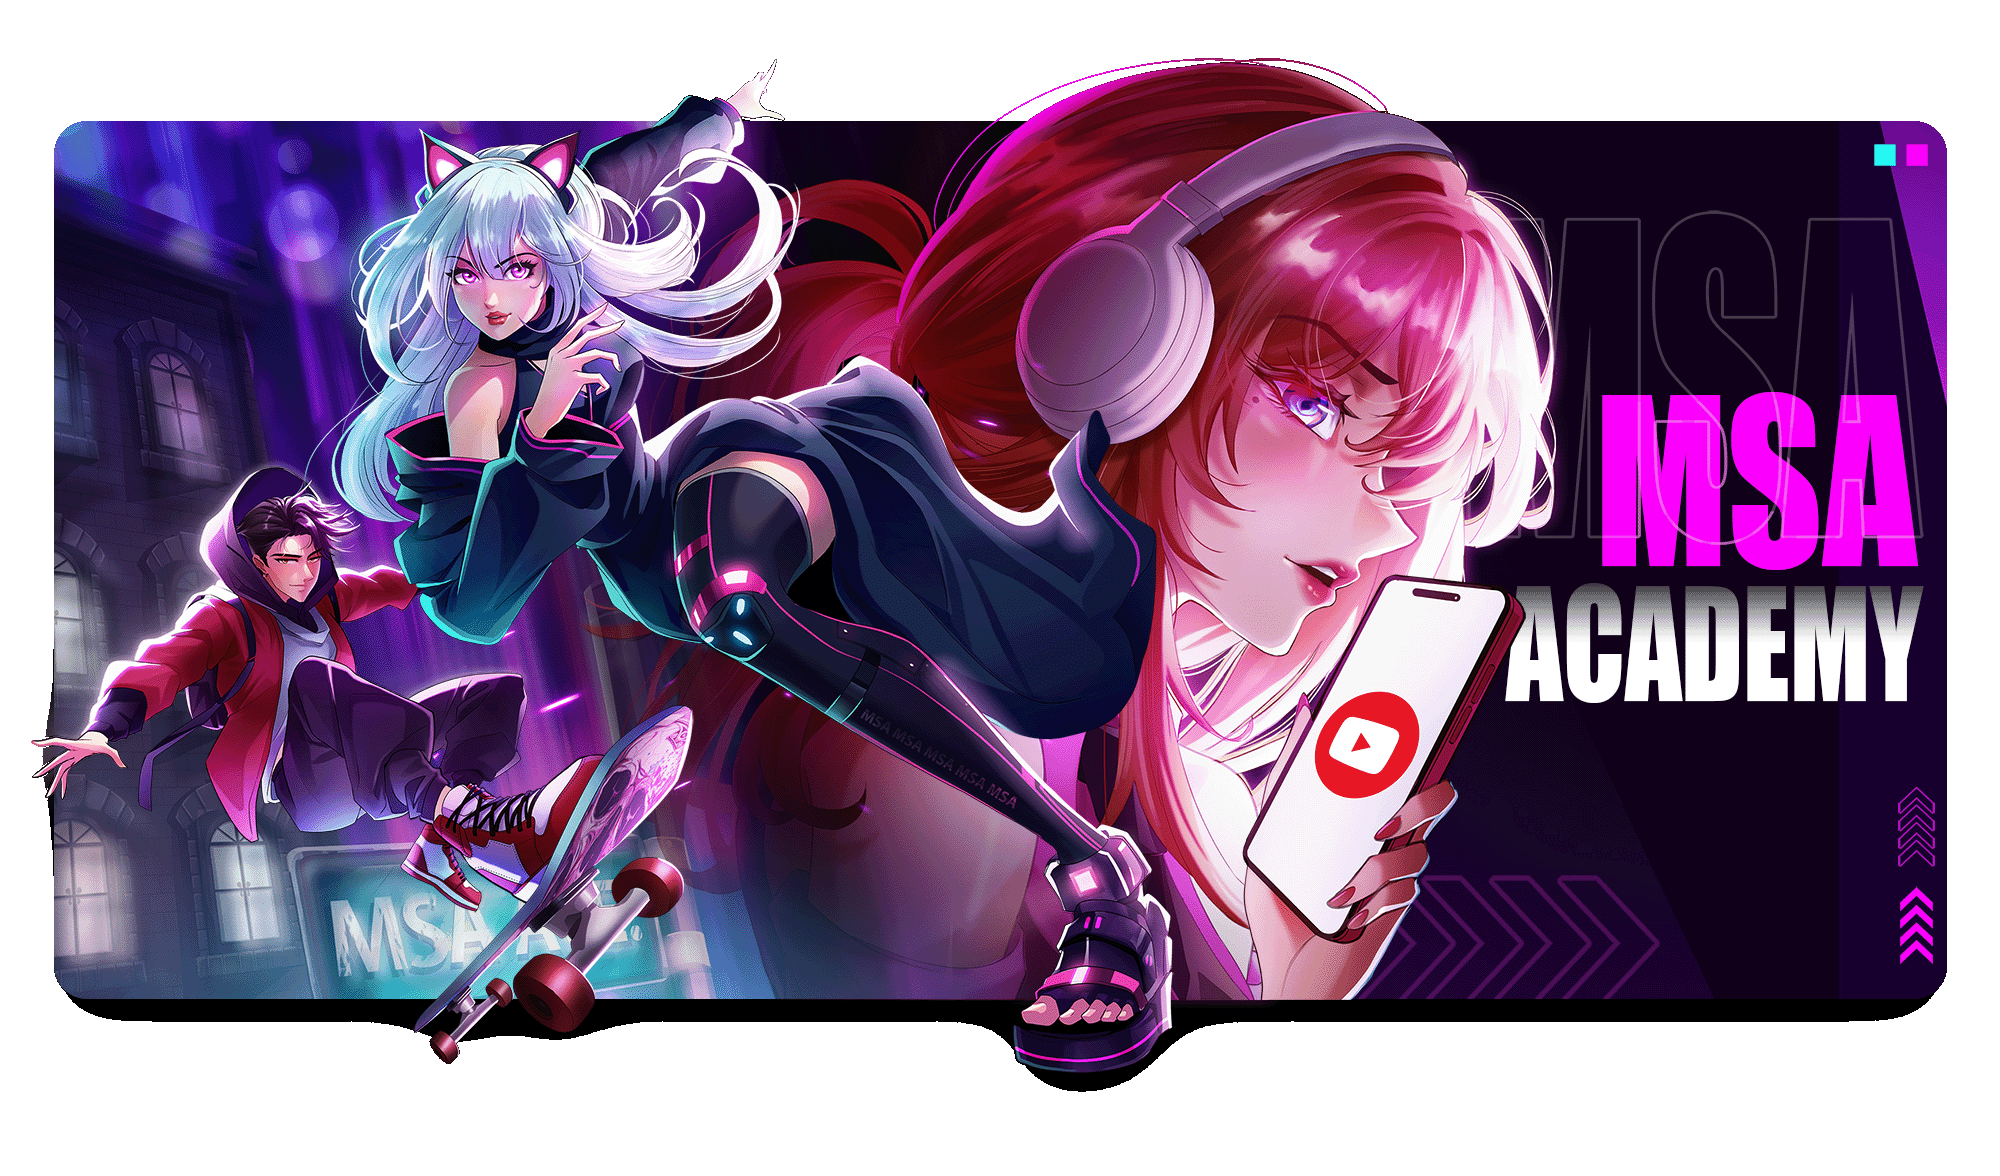
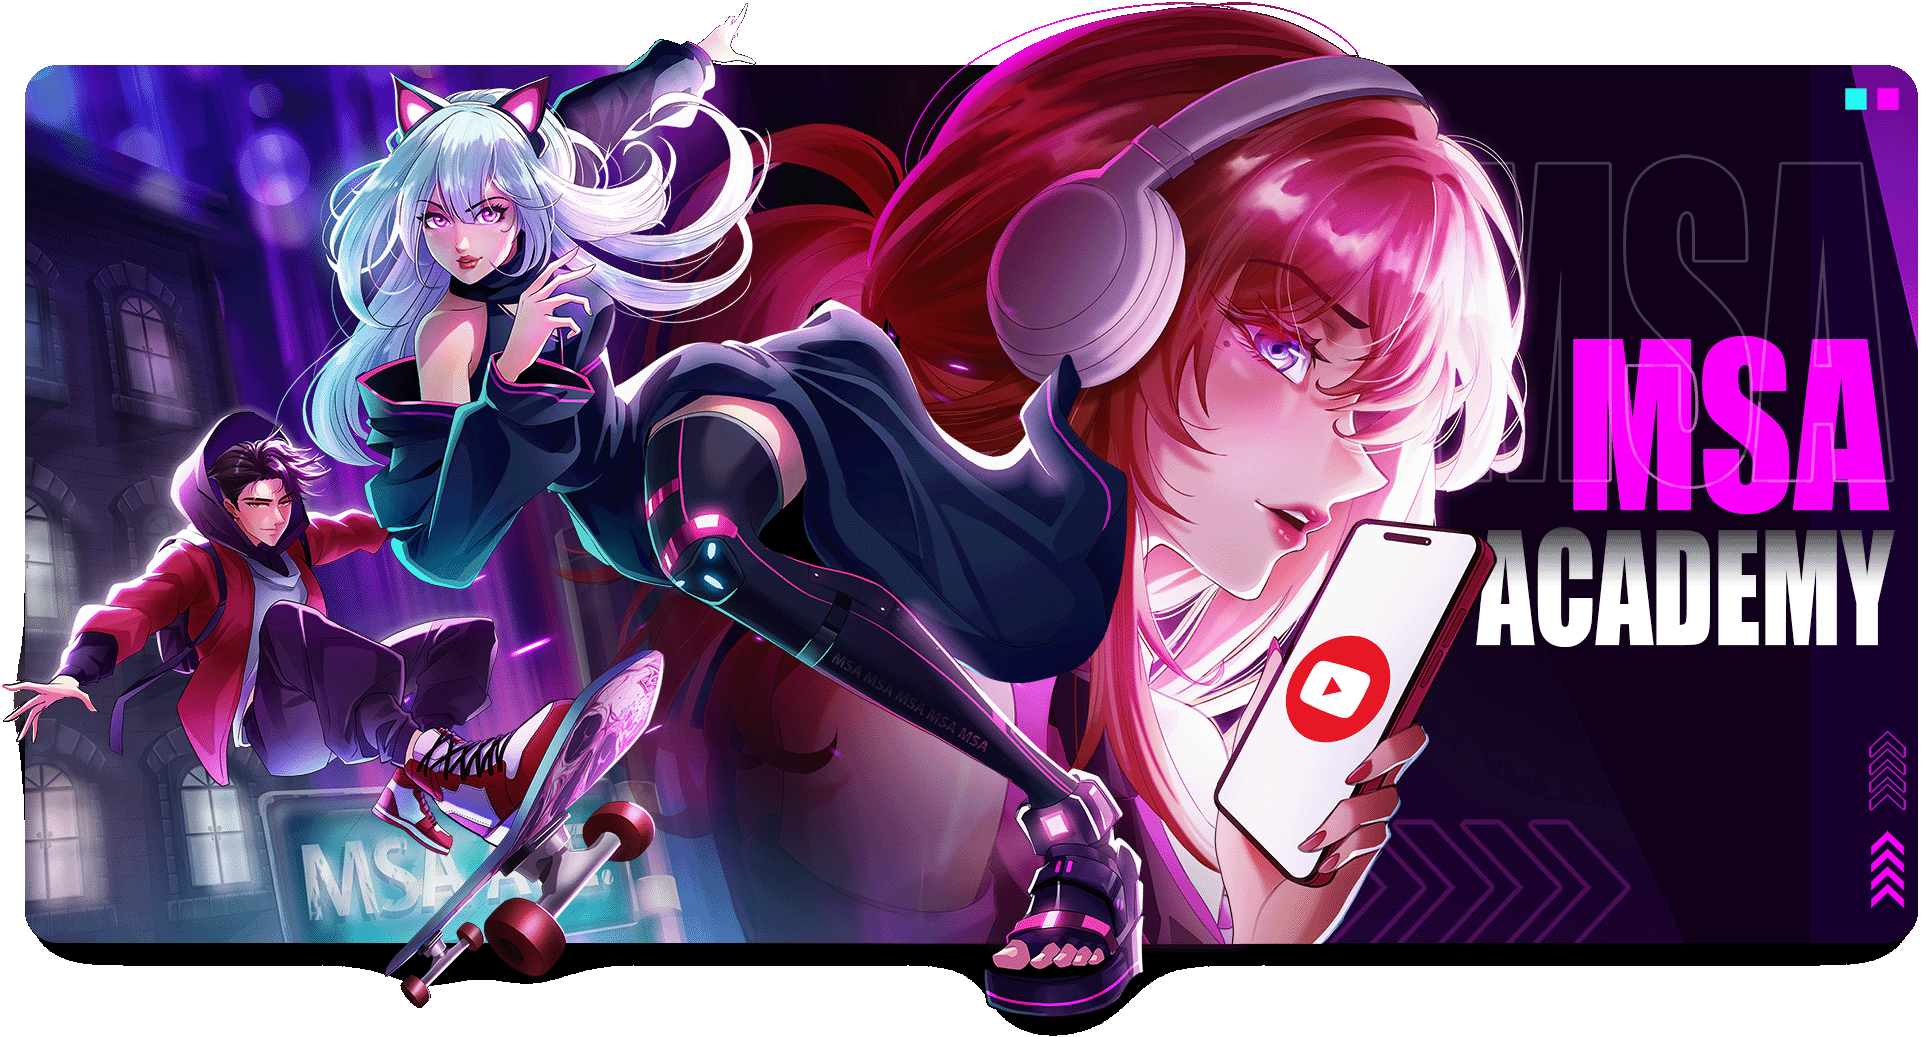
added cropedimages and fixes big uncroped images sizes issue

diff --git a/src/components/Banner.jsx b/src/components/Banner.jsx
@@ -9,8 +9,8 @@ const Banner = () => {
   const { scrollY } = useScroll();
 
   // Enhanced Parallax Depth Effect
-  const parallaxY = useTransform(scrollY, [0, 500], [0, -150]); // Increased for deeper effect
-  const textParallaxY = useTransform(scrollY, [0, 500], [0, -75]); // Slightly more dynamic
+  const parallaxY = useTransform(scrollY, [0, 500], [20, -150]); // Increased for deeper effect
+  const textParallaxY = useTransform(scrollY, [0, 500], [50, -150]); // Slightly more dynamic
 
   return (
     <motion.div
@@ -19,28 +19,17 @@ const Banner = () => {
         opacity: 1,
         transition: { duration: 2, ease: 'easeInOut' },
       }}
-      animate={{
-        scale: [1],
-        transition: {
-          type: 'spring',
-          stiffness: 90,
-          damping: 15,
-          duration: 1,
-          repeat: Infinity,
-          repeatType: 'reverse',
-          ease: 'easeInOut',
-        },
-      }}
+     
       whileHover={{ scale: 1.02 }}
       transition={{ type: 'spring', stiffness: 200, damping: 20 }}
-      className="relative w-full 2xl:w-85 h-auto mt-16 md:mt-20 pt-10 mx-auto md:w-97 mb-16 md:mb-0 lg:mb-0 xl:mb-0 max-w-[1920px]"
+      className="relative w-full 2xl:w-85 h-auto mt-16 md:mt-20 pt-10 mx-auto md:w-97 mb-16 md:mb-0 lg:mb-20 xl:mb-0 max-w-[1920px] pb-10"
     >
       {/* Parallax Background Image */}
       <motion.img
         src={BannerImage}
         alt="Banner"
         style={{ y: parallaxY }}
-        className="w-full mx-auto lg:w-97 h-[47vh] sm:h-[60vh] lg:h-[80vh] object-cover object-[25%_30%] rounded-lg scale-105"
+        className="w-full mx-auto lg:w-97 h-[40vh] sm:h-[60vh] lg:h-full object-cover object-[25%_30%] rounded-lg scale-105 banner_img"
       />
 
       {/* Parallax Foreground Content */}

diff --git a/src/components/YourPath.jsx b/src/components/YourPath.jsx
@@ -9,17 +9,17 @@ const YourPath = () => {
     initial={{opacity:0}} whileInView={{opacity:1,transition:{duration:1.5, ease: "easeInOut",}}} 
   
     // transition={{ type: "spring", }}
-      className="relative w-full h-auto bg-cover bg-center mt-16 md:-mt-10 lg:mt-16 mx-auto md:w-99 2xl:w-85 max-w-[1920px] "
+      className="relative w-full h-auto bg-cover bg-center mt-16 mb-10 md:mt-10 lg:mt-16 mx-auto md:w-99 2xl:w-85 max-w-[1920px] "
      
     >
-         <div className="relative w-full h-auto">
+         <div className="relative w-full h-auto lg:w-full lg:ml-1.5">
          <img 
       src={YourPathImage} 
       alt="Banner" 
-      className="w-full md:w-98 h-[55vh] sm:h-[60vh] md:h-[90vh] lg:h-full object-cover md:object-contain object-[60%_30%] -z-10  mx-auto "
+      className="w-full md:w-98 h-[40vh] sm:h-[60vh] md:h-[90vh] lg:h-full object-cover md:object-contain object-[60%_30%] -z-10  mx-auto "
     />
          </div>
-      <div className="bg-black/60 z-50 md:z-0 lg:bg-transparent rounded-xl shadow-xl shadow-pink200/30 lg:shadow-none lg:rounded-none mx-auto lg:absolute md:top-72 lg:top-10 2xl:top-20 lg:left-20 2xl:left-24 p-8 text-white w-95 lg:w-[51%] 2xl:w-30vw flex flex-col justify-center -mt-32 mb-28 md:-mt-104 lg:-mt-0 lg:mb-0">
+      <div className="bg-black/60 z-50 md:z-0 lg:bg-transparent rounded-xl shadow-xl shadow-pink200/30 lg:shadow-none lg:rounded-none mx-auto lg:absolute md:top-72 lg:top-10 2xl:top-20 lg:left-20 2xl:left-24 p-8 text-white w-95 lg:w-[51%] 2xl:w-30vw flex flex-col justify-center -mt-6 mb-28 md:-mt-104 lg:-mt-0 lg:mb-0">
        
         <BannerTextHeading
         heading="FIND YOUR PATH AND LEARN ONLINE"

diff --git a/src/components/CommunityMap.jsx b/src/components/CommunityMap.jsx
@@ -4,10 +4,10 @@ import CommunityMapImage from '../assets/community_map.png'; // Replace with you
 const CommunityMap = () => {
   return (
     <div
-      className="relative mb-5 mt-5 lg:mb-0 lg:mt-0 w-95 h-auto bg-cover bg-center my-0 2xl:w-85 mx-auto max-w-[1920px]"
+      className="relative mb-10 mt-5 lg:mb-20 lg:mt-2 w-95 h-auto bg-cover bg-center my-0 2xl:w-85 mx-auto max-w-[1920px]"
      
     >
-         <div className="relative h-auto mx-auto w-full md:w-85 " >
+         <div className="relative h-auto mx-auto w-full md:w-80 " >
          <img 
       src={CommunityMapImage} 
       alt="Banner" 

diff --git a/src/components/Animation.jsx b/src/components/Animation.jsx
@@ -8,10 +8,10 @@ const Animation = () => {
   return (
     <motion.div  
   
-      className="relative w-full md:w-99 h-auto bg-cover bg-center -mt-10 md:mb-10 lg:mb-60 xl:mb-10 lg:-mt-36 xl:-mt-56 lg:w-full 2xl:w-85 mx-auto max-w-[1920px]"
+      className="relative w-full md:w-99 h-auto bg-cover bg-center  md:mb-10 lg:mb-60 xl:mb-20 mt-10 xl:mt-20 lg:w-full 2xl:w-85 mx-auto max-w-[1920px] "
      id='animation-course'
     >
-         <div className="relative h-auto w-99 md:w-97" >
+         <div className="relative h-auto w-99 md:w-98" >
          <img 
       src={AnimationImage} 
       alt="Banner" 

diff --git a/src/App.css b/src/App.css
@@ -314,6 +314,12 @@ nav.bg-black.fixed.top-0.left-0.right-0.z-50.shadow-lg.py-2\.5.md\:py-3{
 .blog_description h1 {
   display: none; 
 }
+@media screen and (min-width: 1921px) {
+.banner_img{
+  /* overflow: visible; */
+  object-fit: contain;
+}
+}
 @media screen and (max-width: 768px) {
   .blog_description h2 {
     font-size: 1.32rem;  
